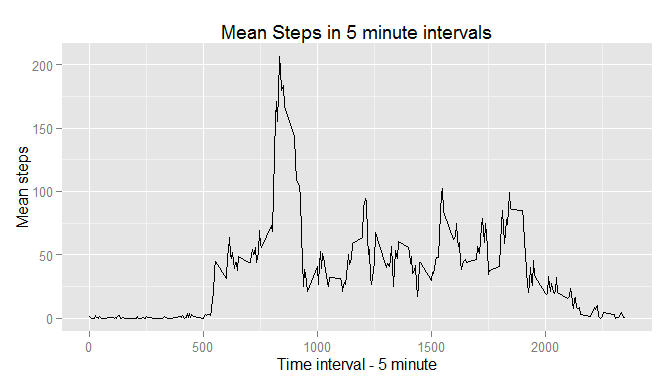
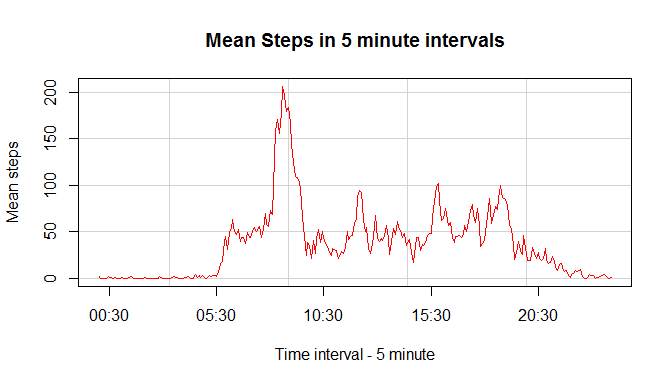
exdata-032 time axis adjustment

diff --git a/PA1_template.html b/PA1_template.html
@@ -147,16 +147,22 @@ medianTotal &lt;- prettyNum(median(dfActivity$totSteps, na.rm = TRUE))</code></p
 <h3>4. What is the average daily activity pattern?</h3>
 <p>Questions:<br />1. Make a time series plot (i.e. type = “l”) of the 5-minute interval (x-axis) and the average number of steps taken, averaged across all days (y-axis)<br />2. Which 5-minute interval, on average across all the days in the dataset, contains the maximum number of steps?</p>
 <pre class="r"><code>## removing NA values and calculating average steps in an interval over days
-dfMeanActivity &lt;-  aggregate(x = list(meanSteps = activity$steps), by = list(interval = activity$interval), FUN = mean, na.rm = TRUE)</code></pre>
-<pre class="r"><code>ggplot(dfMeanActivity, aes(x=interval, y = meanSteps))+geom_line()+
-        labs(title = &quot;Mean Steps in 5 minute intervals&quot;, 
-        x =&quot;Time interval - 5 minute&quot;, y = &quot;Mean steps&quot;)</code></pre>
[1 lines of base64/hex data omitted]
+dfMeanActivity &lt;-  aggregate(x = list(meanSteps = activity$steps), by = list(interval = activity$interval), FUN = mean, na.rm = TRUE)
+
+## A new column with interval as a POSIXct variable
+dfMeanActivity$newint&lt;- as.POSIXct(gsub(&quot; &quot;,0,
+        format(formatC(dfMeanActivity$interval,width = 4,
+        flag = 0), width=6)), format = &quot;%H%M%S&quot;)</code></pre>
+<pre class="r"><code>plot(dfMeanActivity$newint,dfMeanActivity$meanSteps,type=&quot;l&quot;,
+     main = &quot;Mean Steps in 5 minute intervals&quot;,xlab =&quot;Time interval - 5 minute&quot;, 
+     ylab = &quot;Mean steps&quot;, col = &quot;red&quot;,panel.first = grid(lty = &quot;solid&quot;)
+     )</code></pre>
[1 lines of base64/hex data omitted]
 <pre class="r"><code>## maximum activity is found and interval is noted
 maxActivity &lt;- dfMeanActivity[dfMeanActivity$meanSteps == max(dfMeanActivity$meanSteps),]
 maxActivity</code></pre>
-<pre><code>##     interval meanSteps
-## 104      835  206.1698</code></pre>
+<pre><code>##     interval meanSteps              newint
+## 104      835  206.1698 2015-09-17 08:35:00</code></pre>
 <p>Peak activity is around 835 interval in the morning corresponding to the maximum number of steps</p>
 </div>
 <div id="imputing-missing-values" class="section level3">
@@ -264,12 +270,39 @@ summary(fillActivity)</code></pre>
 <pre class="r"><code>## aggregate dataset with average steps in an interval during weekend and weekdays
 dfWkActivity &lt;- aggregate(list(meanSteps = fillActivity$steps), by =  list(interval = fillActivity$interval,dayOfWeek = fillActivity$dayOfWeek), FUN = mean)
 
+dfWkActivity$int&lt;- as.POSIXct(gsub(&quot; &quot;,0,
+        format(formatC(dfWkActivity$interval,width = 4,
+        flag = 0), width=6)), format = &quot;%H%M%S&quot;)
+
 ## panel plot with a time series plot (i.e. type = &quot;l&quot;) of the 5-minute interval (x-axis) and the average number of steps taken, averaged across all weekday days or weekend days (y-axis).
-ggplot(dfWkActivity, aes(x=interval, y = meanSteps, col = dayOfWeek))+geom_line()+
-        labs(title = &quot;Mean Steps in 5 minute intervals&quot;, 
-             x =&quot;Interval&quot;, y = &quot;Number of steps&quot;)+
-        facet_grid(dayOfWeek~.)</code></pre>
[1 lines of base64/hex data omitted]
+
+mfrowVal &lt;- par(&quot;mfrow&quot;)
+par(mfrow = c(2,1),oma = c(0,0,1,2), mar=c(4,4,2,1))
+
+
+with(subset(dfWkActivity,dfWkActivity$dayOfWeek == &quot;weekday&quot;),
+     plot(int,meanSteps,type = &quot;l&quot;,
+     main = &quot;WeekDay&quot;,xlab =&quot;Time interval - 5 minute&quot;, 
+     ylab = &quot;Number of steps&quot;, col = &quot;red&quot;,panel.first = grid(lty = &quot;solid&quot;))
+)
+
+## To get the same scale for both plots, plotting the weekday with type = &quot;n&quot;
+with(subset(dfWkActivity,dfWkActivity$dayOfWeek == &quot;weekday&quot;),
+     plot(int,meanSteps,type = &quot;n&quot;,
+     main = &quot;Weekend&quot;,xlab =&quot;Time interval - 5 minute&quot;, 
+     ylab = &quot;Number of steps&quot;, col = &quot;blue&quot;,panel.first = grid(lty = &quot;solid&quot;))
+)
+
+with(subset(dfWkActivity,dfWkActivity$dayOfWeek == &quot;weekend&quot;),
+     lines(int,meanSteps, type = &quot;l&quot;,
+     main = &quot;Weekend&quot;,xlab =&quot;Time interval - 5 minute&quot;, 
+     ylab = &quot;Number of steps&quot;, col = &quot;blue&quot;,panel.first = grid(lty = &quot;solid&quot;)
+     )
+)
+
+title(main = &quot;Mean Steps in 5 minute intervals for weekdays and weekends&quot;,outer = TRUE)</code></pre>
[1 lines of base64/hex data omitted]
+<pre class="r"><code>par(mfrow = mfrowVal)</code></pre>
 <p>During <strong>weekdays</strong> there is <em><strong>increased</strong></em> activity around <strong>8 to 10</strong> interval(roughly), which subsides over the time till night. During weekends peak activity happens a little later than weekday. Night time steps are also shifted a little to the right compared to the weekdays.The peak activity during a weekday is 230 during the interval 835 and that of weekend is 167 during the interval 915 which is lesser than weekend. But the mean activity all through weekend is 42 is higher than the weekday mean 36, which implies a higher level of activity through out the day during weekend than that in weekday.</p>
 </div>
 

diff --git a/PA1_template.md b/PA1_template.md
@@ -133,13 +133,19 @@ Questions:
 ```r
 ## removing NA values and calculating average steps in an interval over days
 dfMeanActivity <-  aggregate(x = list(meanSteps = activity$steps), by = list(interval = activity$interval), FUN = mean, na.rm = TRUE)
+
+## A new column with interval as a POSIXct variable
+dfMeanActivity$newint<- as.POSIXct(gsub(" ",0,
+        format(formatC(dfMeanActivity$interval,width = 4,
+        flag = 0), width=6)), format = "%H%M%S")
 ```
 
 
 ```r
-ggplot(dfMeanActivity, aes(x=interval, y = meanSteps))+geom_line()+
-        labs(title = "Mean Steps in 5 minute intervals", 
-        x ="Time interval - 5 minute", y = "Mean steps")
+plot(dfMeanActivity$newint,dfMeanActivity$meanSteps,type="l",
+     main = "Mean Steps in 5 minute intervals",xlab ="Time interval - 5 minute", 
+     ylab = "Mean steps", col = "red",panel.first = grid(lty = "solid")
+     )
 ```
 
 <img src="PA1_template_files/figure-html/unnamed-chunk-7-1.png" title="" alt="" style="display: block; margin: auto;" />
@@ -152,8 +158,8 @@ maxActivity
 ```
 
 ```
-##     interval meanSteps
-## 104      835  206.1698
+##     interval meanSteps              newint
+## 104      835  206.1698 2015-09-17 08:35:00
 ```
 
 Peak activity is around 835 interval in the morning corresponding to the maximum number of steps
@@ -342,14 +348,45 @@ summary(fillActivity)
 ## aggregate dataset with average steps in an interval during weekend and weekdays
 dfWkActivity <- aggregate(list(meanSteps = fillActivity$steps), by =  list(interval = fillActivity$interval,dayOfWeek = fillActivity$dayOfWeek), FUN = mean)
 
+dfWkActivity$int<- as.POSIXct(gsub(" ",0,
+        format(formatC(dfWkActivity$interval,width = 4,
+        flag = 0), width=6)), format = "%H%M%S")
+
 ## panel plot with a time series plot (i.e. type = "l") of the 5-minute interval (x-axis) and the average number of steps taken, averaged across all weekday days or weekend days (y-axis).
-ggplot(dfWkActivity, aes(x=interval, y = meanSteps, col = dayOfWeek))+geom_line()+
-        labs(title = "Mean Steps in 5 minute intervals", 
-             x ="Interval", y = "Number of steps")+
-        facet_grid(dayOfWeek~.)
+
+mfrowVal <- par("mfrow")
+par(mfrow = c(2,1),oma = c(0,0,1,2), mar=c(4,4,2,1))
+
+
+with(subset(dfWkActivity,dfWkActivity$dayOfWeek == "weekday"),
+     plot(int,meanSteps,type = "l",
+     main = "WeekDay",xlab ="Time interval - 5 minute", 
+     ylab = "Number of steps", col = "red",panel.first = grid(lty = "solid"))
+)
+
+## To get the same scale for both plots, plotting the weekday with type = "n"
+with(subset(dfWkActivity,dfWkActivity$dayOfWeek == "weekday"),
+     plot(int,meanSteps,type = "n",
+     main = "Weekend",xlab ="Time interval - 5 minute", 
+     ylab = "Number of steps", col = "blue",panel.first = grid(lty = "solid"))
+)
+
+with(subset(dfWkActivity,dfWkActivity$dayOfWeek == "weekend"),
+     lines(int,meanSteps, type = "l",
+     main = "Weekend",xlab ="Time interval - 5 minute", 
+     ylab = "Number of steps", col = "blue",panel.first = grid(lty = "solid")
+     )
+)
+
+title(main = "Mean Steps in 5 minute intervals for weekdays and weekends",outer = TRUE)
 ```
 
 <img src="PA1_template_files/figure-html/unnamed-chunk-13-1.png" title="" alt="" style="display: block; margin: auto;" />
+
+```r
+par(mfrow = mfrowVal)
+```
+
 
 
 During **weekdays** there is _**increased**_ activity around **8 to 10** interval(roughly), which subsides over the time till night. During weekends peak activity happens a little later than weekday. Night time steps are also shifted a little to the right compared to the weekdays.The peak activity during a weekday is 230 during the interval 835 and that of weekend is 167 during the interval 915 which is lesser than weekend. But the mean activity all through weekend is 42 is higher than the weekday mean 36, which implies a higher level of activity through out the day during weekend than that in weekday.
